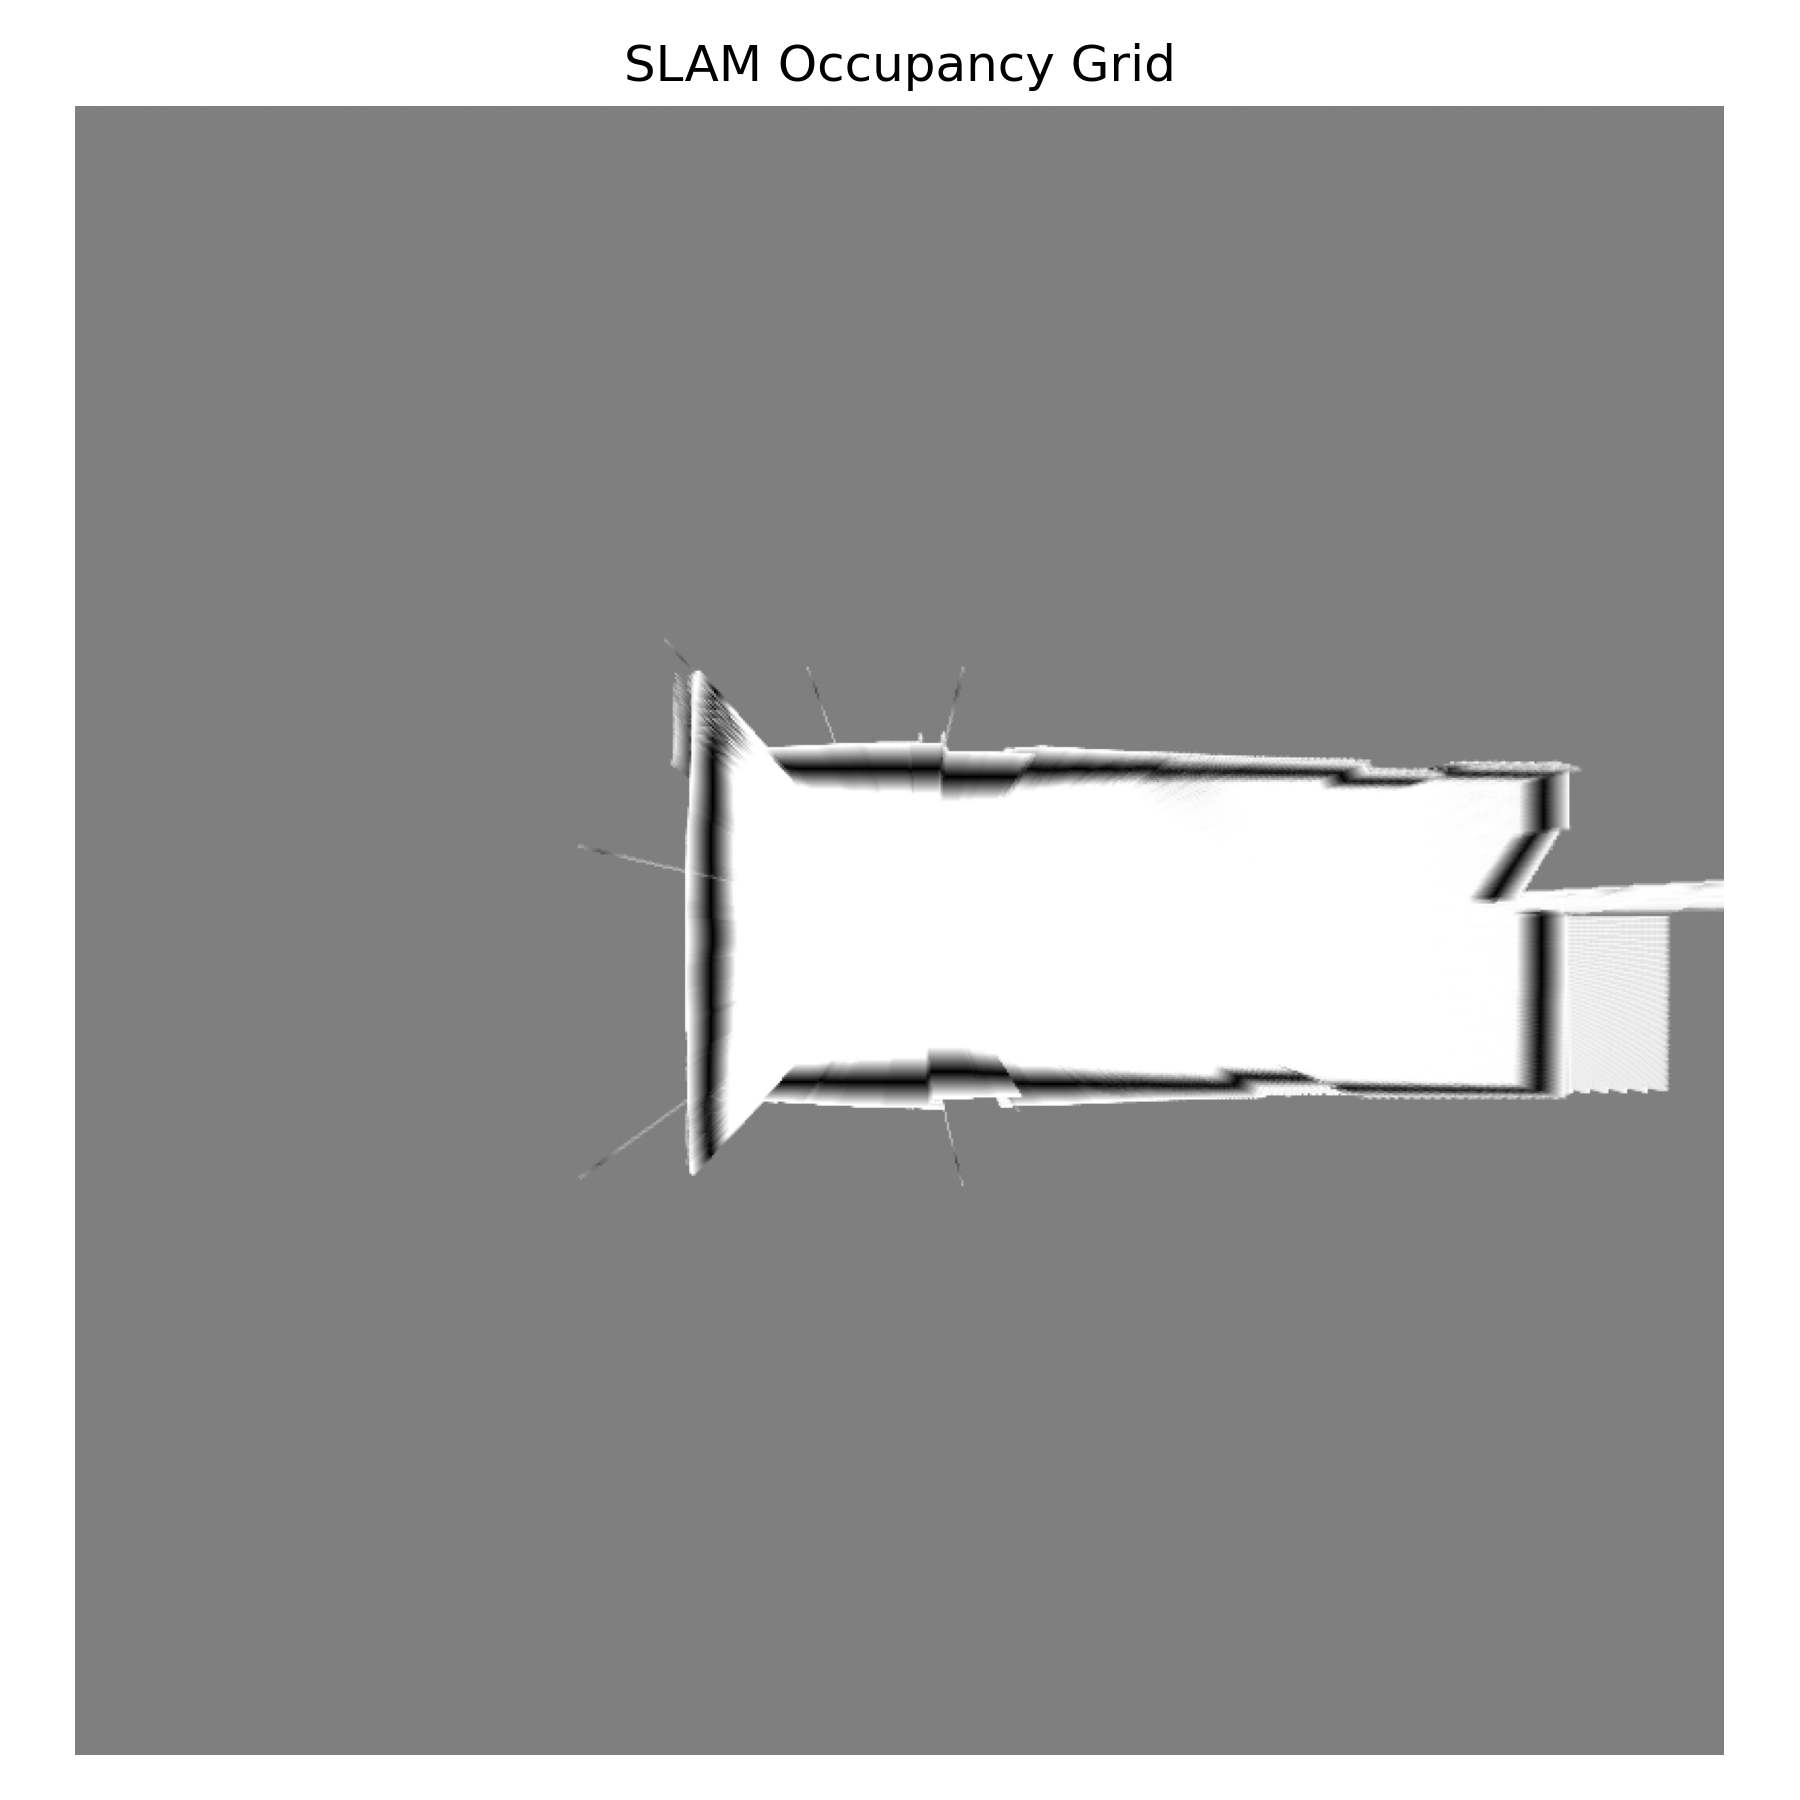
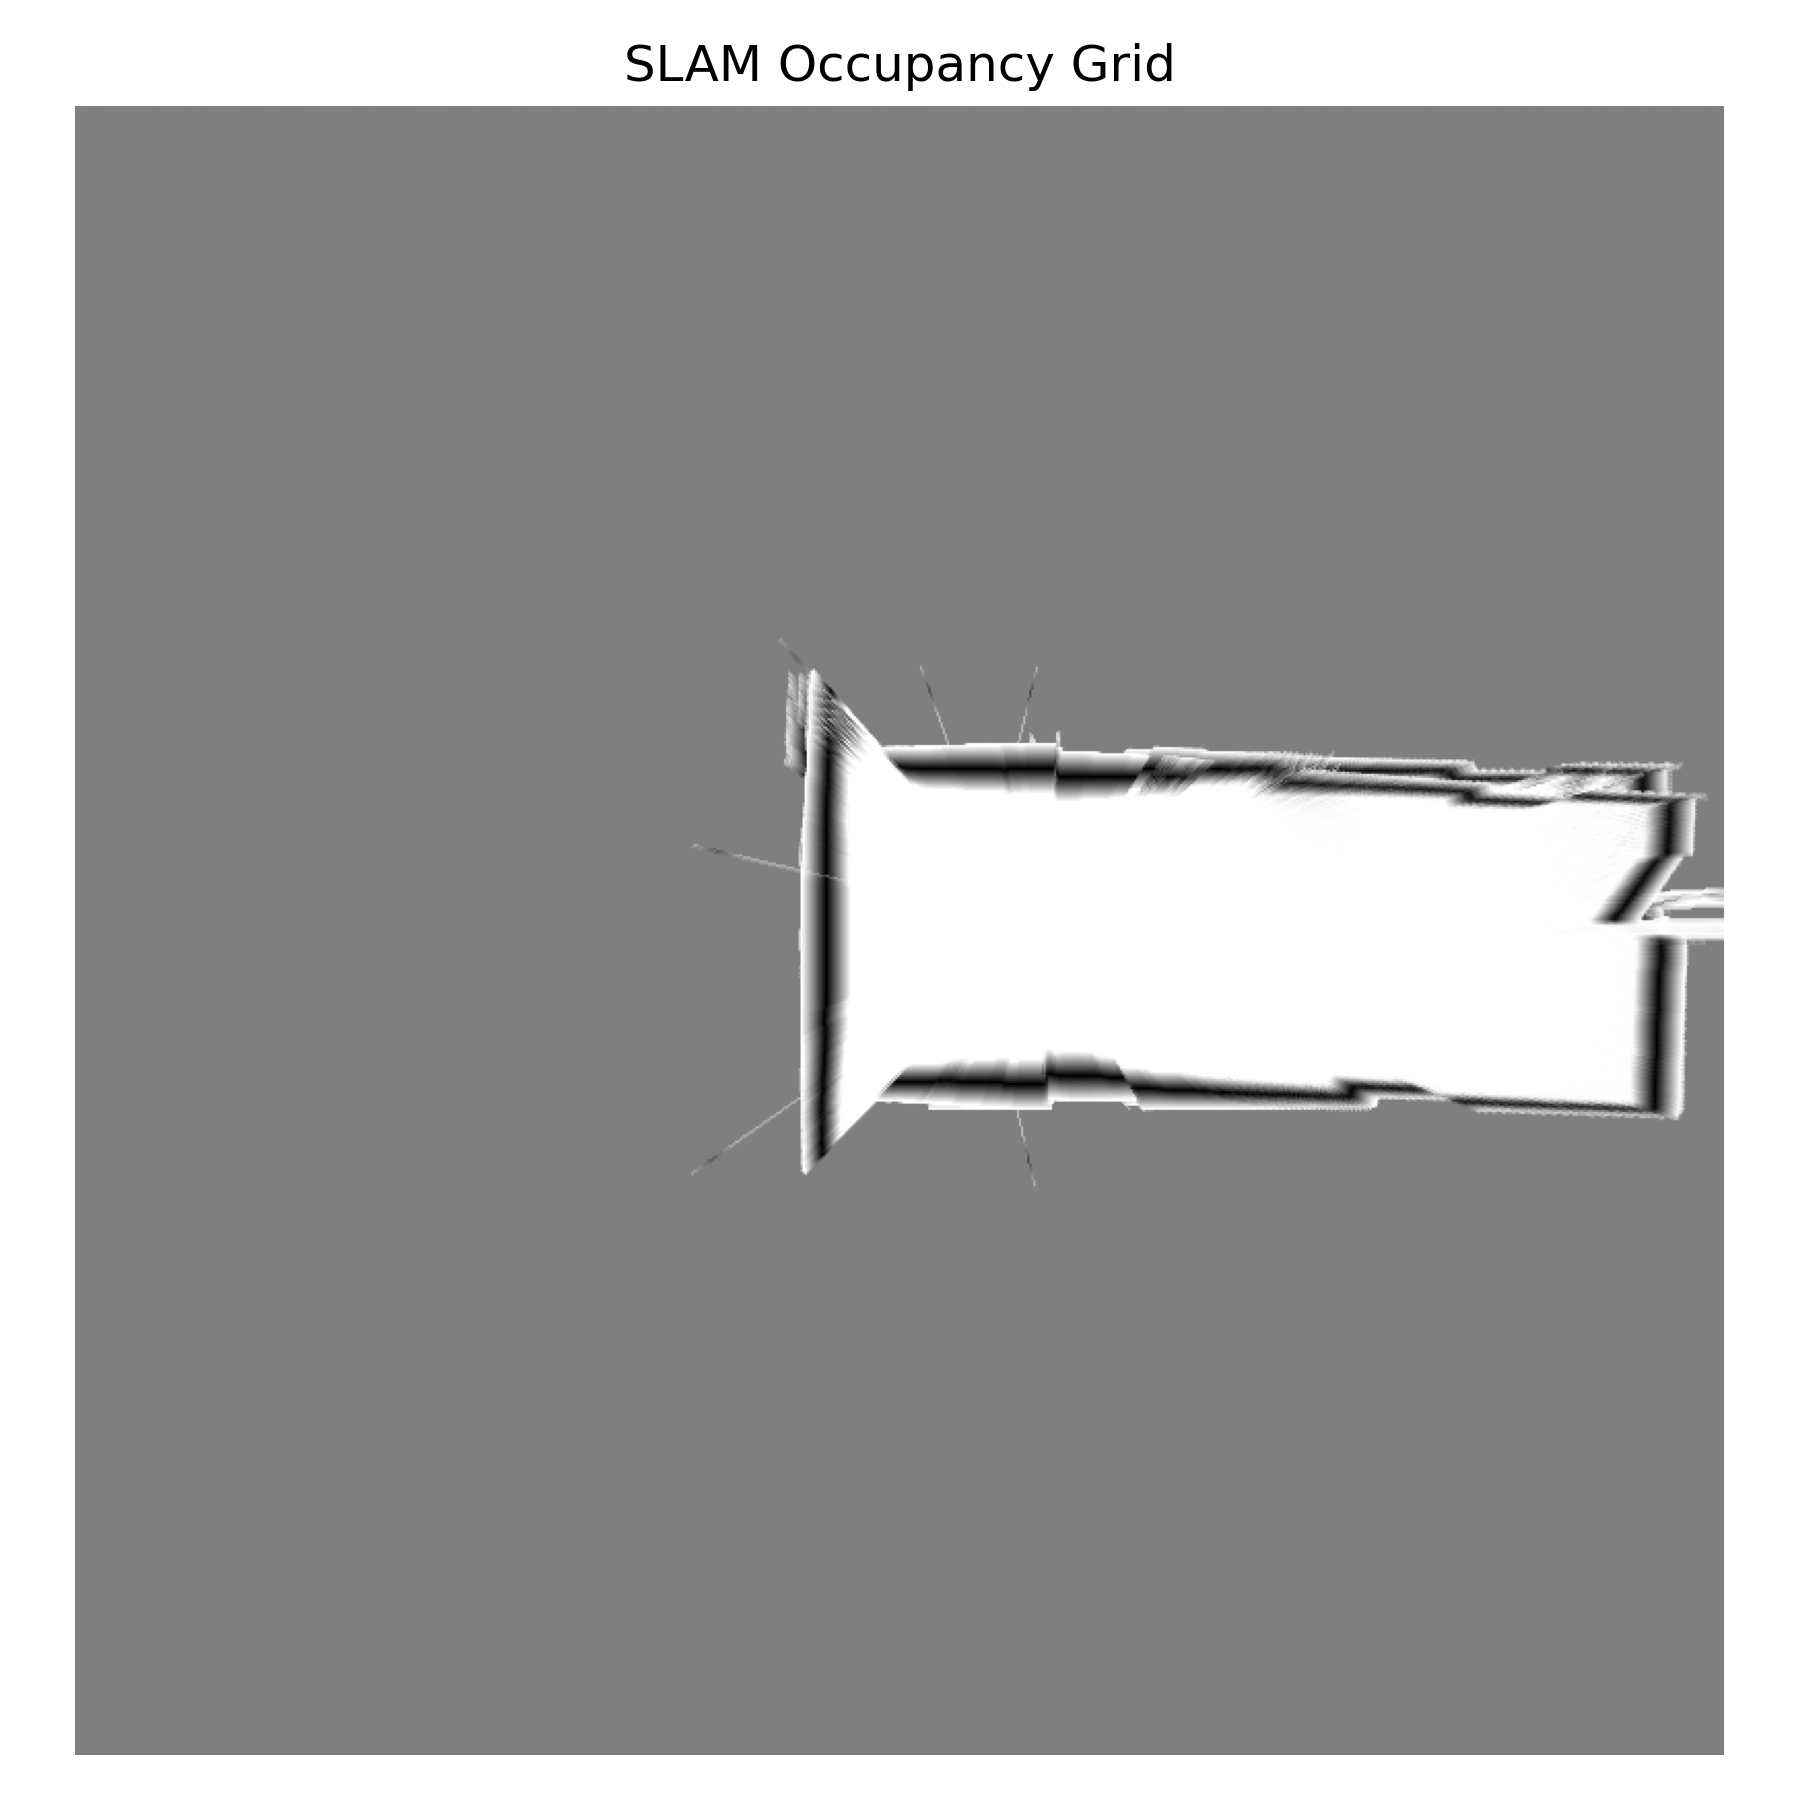
fixing odometry for SLAM and integrating IMU fusion for better SLAM

Changed region(s): [[0.3733, 0.3733, 0.9644, 0.6533]]

diff --git a/controllers/social_robot/social_robot.py b/controllers/social_robot/social_robot.py
@@ -57,8 +57,8 @@ class PoseEstimator:
         self.wheel_radius = wheel_radius
         self.axle_length = axle_length
 
-        self.prev_left = 0.0
-        self.prev_right = 0.0
+        self.prev_left = None
+        self.prev_right = None
 
         self.x = 0.0
         self.y = 0.0
@@ -68,7 +68,7 @@ class PoseEstimator:
         if self.prev_left is None:
             self.prev_left = left_val
             self.prev_right = right_val
-            return
+            return 0.0, 0.0, 0.0
         
         d_left = left_val - self.prev_left
         d_right = right_val - self.prev_right
@@ -129,15 +129,26 @@ class SlamBackend:
         self.y_mm = 0
         self.theta_deg = 0
 
-    def update(self, ranges_m):
+        self.scan_period_sec = time_step_ms / 1000.0
+
+    def update(self, ranges_m, d_center_m=None, dtheta_rad=None):
         max_range_m = self.max_range_m
         scan_mm = []
         for r in ranges_m:
             if math.isinf(r) or r <= 0.0:
                 r = max_range_m
             scan_mm.append(int(r * 1000))
+        
+        pose_change = None
+        if d_center_m is not None and dtheta_rad is not None:
+            d_center_mm = int(d_center_m * 1000)
+            dtheta_deg = math.degrees(dtheta_rad)
+            pose_change = (d_center_mm, dtheta_deg, self.scan_period_sec)
 
-        self.slam.update(scan_mm)
+        if pose_change is None:
+            self.slam.update(scan_mm)
+        else:
+            self.slam.update(scan_mm, pose_change)
 
     def get_pose(self):
         x_mm, y_mm, theta_deg = self.slam.getpos()
@@ -180,6 +191,10 @@ except:
 # --------------- Pose Estimator Setup -----------------
 pose_estimator = PoseEstimator(WHEEL_RADIUS, AXLE_LENGTH)
 
+
+fused_theta = 0.0
+prev_fused_theta = 0.0
+alpha = 0.98  # Complementary filter coefficient
 # --------------- Main Loop -----------------
 while robot.step(TIME_STEP) != -1:
     t = robot.getTime()
@@ -226,11 +241,31 @@ while robot.step(TIME_STEP) != -1:
     
     yaw_deg = None
     if imu is not None:
-        roll, pitch, yaw = imu.getRollPitchYaw()
+        roll, pitch, yaw = imu.getRollPitchYaw()  # yaw in radians
         yaw_deg = yaw * (180.0 / math.pi)
+    else:
+        yaw = None
+
+    if imu is not None and yaw is not None:
+
+        imu_yaw = (yaw + math.pi) % (2 * math.pi) - math.pi
+
+        fused_theta = alpha * odo_theta + (1 - alpha) * imu_yaw
+
+        dtheta_fused = fused_theta - prev_fused_theta
+        dtheta_fused = (dtheta_fused + math.pi) % (2 * math.pi) - math.pi
+
+        prev_fused_theta = fused_theta
+
+        dtheta_for_slam = dtheta_fused
+    else:
+        dtheta_for_slam = dtheta
+
+    if abs(dx) < 1e-6 and abs(dtheta) < 1e-6:
+        dtheta_for_slam = 0.0
 
     if ranges and len(ranges) > 0:
-        slam_backend.update(ranges)
+        slam_backend.update(ranges, d_center_m=dx, dtheta_rad=dtheta_for_slam)
         slam_x, slam_y, slam_theta = slam_backend.get_pose()
     else:
         slam_x, slam_y, slam_theta = 0.0, 0.0, 0.0
